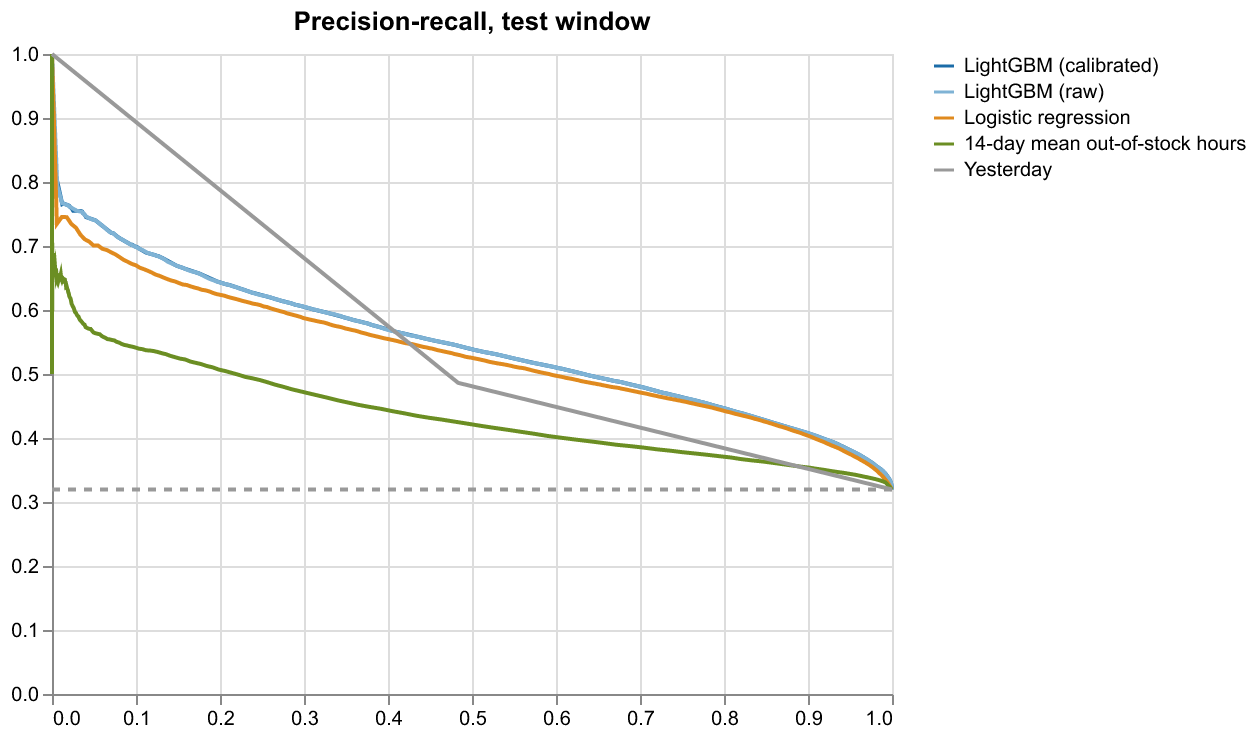
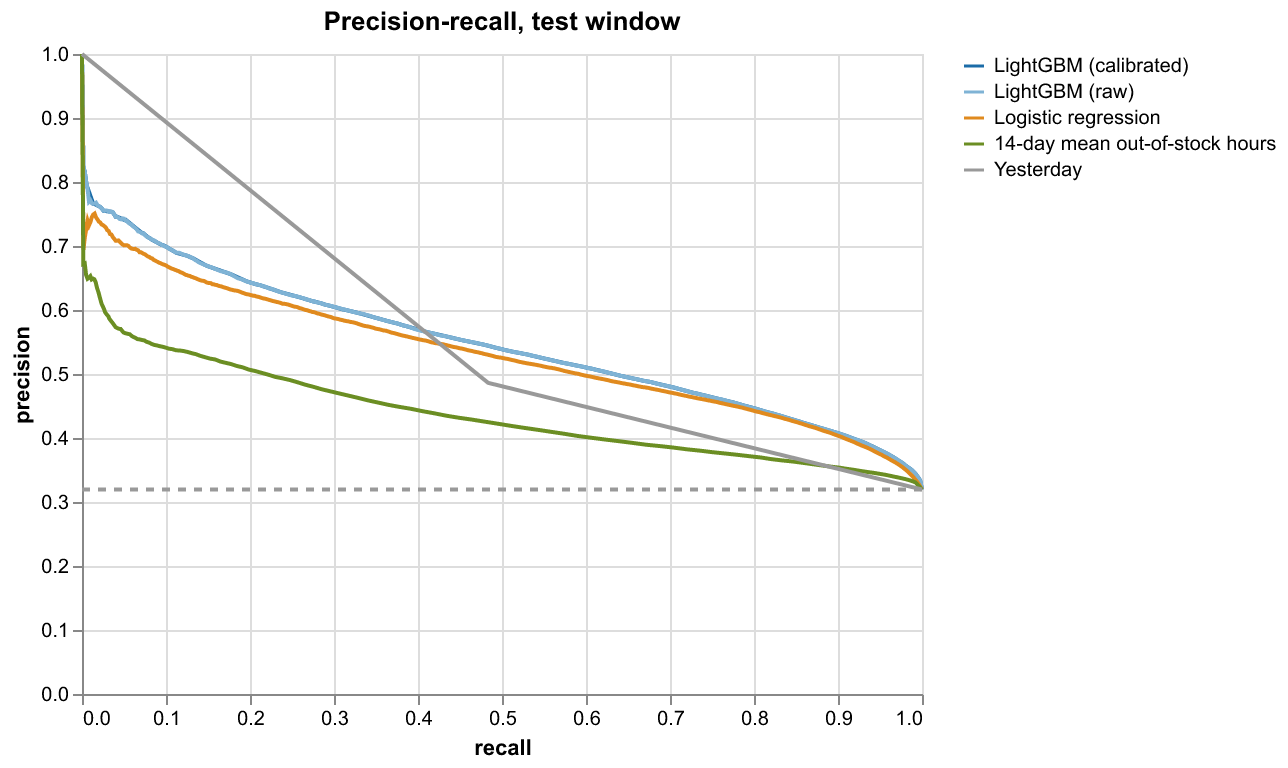
fix(ml): label the stockout charts' axes and thin the PR curve by recall
The reference-line layers overrode the axis titles, and the PR curve was thinned
by array position, which under-sampled the top-left. Numbers are unchanged.

diff --git a/challenges/Practical ML/Retail Stockout Risk Classifier/src/stockout_risk/report.py b/challenges/Practical ML/Retail Stockout Risk Classifier/src/stockout_risk/report.py
@@ -46,7 +46,10 @@ def reliability_chart(result: dict) -> alt.Chart:
     line = (
         alt.Chart(diag)
         .mark_line(color="#999", strokeDash=[4, 4])
-        .encode(x=alt.X("x:Q", title=None), y=alt.Y("y:Q", title=None))
+        .encode(
+            x=alt.X("x:Q", title="mean predicted risk"),
+            y=alt.Y("y:Q", title="observed stockout rate"),
+        )
     )
     pts = (
         alt.Chart(df)
@@ -66,29 +69,42 @@ def reliability_chart(result: dict) -> alt.Chart:
     )
 
 
+def pr_points(
+    y: np.ndarray, p: np.ndarray, n: int = 600
+) -> tuple[np.ndarray, np.ndarray]:
+    """The precision-recall curve thinned to about ``n`` points spaced evenly in *recall*.
+
+    ``precision_recall_curve`` returns a point per distinct score (hundreds of thousands here).
+    Thinning them evenly by position drops the few hundred at the top-left, where the curve is
+    steepest, so the grid is on recall instead.
+    """
+    precision, recall, _ = precision_recall_curve(y, p)
+    # recall falls as the index rises, so -recall is increasing and searchsorted applies
+    idx = np.searchsorted(-recall, -np.linspace(0, 1, n))
+    idx = np.unique(np.clip(idx, 0, len(recall) - 1))
+    return recall[idx], precision[idx]
+
+
 def pr_chart(y: np.ndarray, probs: dict[str, np.ndarray]) -> alt.Chart:
     frames = []
     for name, p in probs.items():
-        precision, recall, _ = precision_recall_curve(y, p)
-        idx = np.unique(np.linspace(0, len(recall) - 1, 400).astype(int))
+        recall, precision = pr_points(y, p)
         frames.append(
-            pl.DataFrame(
-                {"recall": recall[idx], "precision": precision[idx], "model": name}
-            )
+            pl.DataFrame({"recall": recall, "precision": precision, "model": name})
         )
     df = pl.concat(frames)
     base = pl.DataFrame({"x": [0.0, 1.0], "y": [float(y.mean())] * 2})
     line = (
         alt.Chart(base)
         .mark_line(color="#999", strokeDash=[4, 4])
-        .encode(x=alt.X("x:Q", title=None), y=alt.Y("y:Q", title=None))
+        .encode(x=alt.X("x:Q", title="recall"), y=alt.Y("y:Q", title="precision"))
     )
     curves = (
         alt.Chart(df)
         .mark_line()
         .encode(
-            x=alt.X("recall:Q", scale=alt.Scale(domain=[0, 1])),
-            y=alt.Y("precision:Q", scale=alt.Scale(domain=[0, 1])),
+            x=alt.X("recall:Q", title="recall", scale=alt.Scale(domain=[0, 1])),
+            y=alt.Y("precision:Q", title="precision", scale=alt.Scale(domain=[0, 1])),
             color=alt.Color(
                 "model:N",
                 title=None,

diff --git a/challenges/Practical ML/Retail Stockout Risk Classifier/tests/test_pipeline.py b/challenges/Practical ML/Retail Stockout Risk Classifier/tests/test_pipeline.py
@@ -143,3 +143,17 @@ def test_load_features_caches_next_to_the_data(home, monkeypatch, feat):
     pipeline.load_features(refresh=True)
     assert calls == [1, 1]
     assert isinstance(first, pl.DataFrame)
+
+
+def test_pr_points_are_spaced_in_recall_and_span_the_curve():
+    import numpy as np
+
+    rng = np.random.default_rng(0)
+    y = (rng.random(100_000) < 0.3).astype(int)
+    s = rng.normal(np.where(y == 1, 1.0, 0.0), 1.0)
+    recall, precision = report.pr_points(y, s, n=200)
+    assert len(recall) <= 201 and recall.max() == 1.0 and recall.min() == 0.0
+    assert np.all(
+        np.diff(np.sort(recall)) < 0.02
+    )  # no gaps: the top of the curve is there
+    assert precision[recall.argmin()] == 1.0  # sklearn's closing point

diff --git a/challenges/Practical ML/Retail Stockout Risk Classifier/src/stockout_risk/app.py b/challenges/Practical ML/Retail Stockout Risk Classifier/src/stockout_risk/app.py
@@ -88,7 +88,10 @@ def main() -> None:
     diag = (
         alt.Chart(pl.DataFrame({"x": [0, 1], "y": [0, 1]}))
         .mark_line(strokeDash=[4, 4])
-        .encode(x=alt.X("x:Q", title=None), y=alt.Y("y:Q", title=None))
+        .encode(
+            x=alt.X("x:Q", title="mean predicted risk"),
+            y=alt.Y("y:Q", title="observed rate"),
+        )
     )
     points = (
         alt.Chart(rel)
